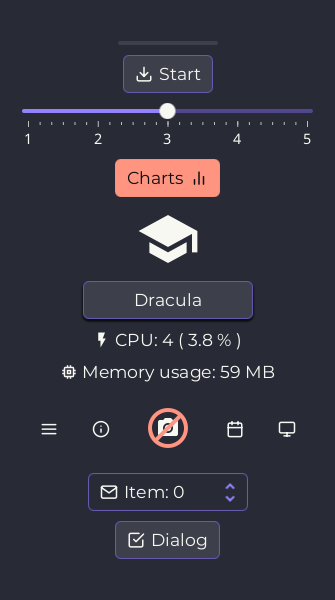
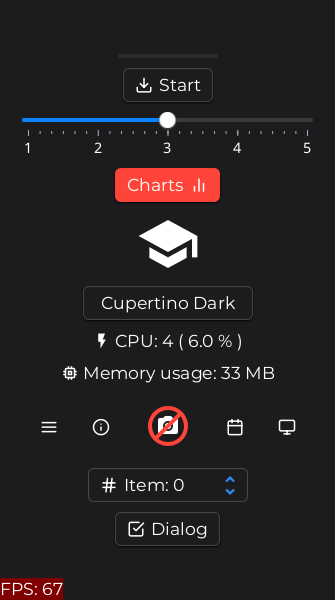
More Screens

diff --git a/src/main/java/com/mycompany/atlantafx_gluon/App.java b/src/main/java/com/mycompany/atlantafx_gluon/App.java
@@ -36,7 +36,6 @@ import org.kordamp.ikonli.material2.Material2OutlinedAL;
 import org.kordamp.ikonli.Ikon;
 import net.datafaker.Faker;
 
-import java.io.File;
 import java.util.Optional;
 import java.util.Random;
 
@@ -66,6 +65,9 @@ public class App extends Application {
     public static final StringProperty label_taxt = new SimpleStringProperty("Theme: ");
     Tooltip basicTtp = new Tooltip(toolbar_taxt.get());
     Label mem_label, cpu_label;
+    long total_time;
+    int count;
+    public static final StringProperty fps = new SimpleStringProperty("FPS: 0");
 
     static final String APP_ICON_PATH = Objects.requireNonNull(
             App.class.getResource(ASSETS_DIR + "icons/app-icon.png")
@@ -78,6 +80,7 @@ public class App extends Application {
 
     //------------------------------------------------------
     public void init() throws Exception {
+//        System.setProperty("javafx.animation.pulse","30");
 //        System.out.println("Method init()");
         System_Info.load_settings();
         try{
@@ -147,11 +150,28 @@ public class App extends Application {
         modalPane.setId("modalPane");
 
         stackPane = new StackPane(modalPane, createWelcomePane(stage), System_Info.notification()); // notification create and add to root stack pane
-        scene = new Scene(stackPane, System_Info.dimension.getWidth(), System_Info.dimension.getHeight());
+        Label lbl = new Label("---");
+        lbl.getStyleClass().addAll("fps_lbl");
+//        lbl.setMaxWidth(Double.MAX_VALUE);
+//        lbl.setAlignment(Pos.BOTTOM_RIGHT);  // Ako koristimo VBox umesto Pane
+        lbl.textProperty().bind(fps);
+        Pane root = new Pane(stackPane,lbl) {
+            @Override
+            protected void layoutChildren() {
+                Insets insets = getInsets();
+                stackPane.setLayoutX(insets.getLeft()); stackPane.setLayoutY(insets.getTop());
+                stackPane.setPrefWidth(insets.getLeft() + getWidth());
+                stackPane.setPrefHeight(insets.getTop() + getHeight());
+                lbl.setLayoutX(insets.getLeft()); lbl.setLayoutY(insets.getTop()+getHeight() - lbl.getHeight());
+                super.layoutChildren();
+            }
+        };
+        VBox.setVgrow(stackPane,Priority.ALWAYS);
+        scene = new Scene(root, System_Info.dimension.getWidth(), System_Info.dimension.getHeight());
         System.out.println("w: " + System_Info.dimension.getWidth() + ",h: " + System_Info.dimension.getHeight());
 //        scene.getStylesheets().add(ASSETS_DIR + "index.css"); // moze za native image ali ne moze za javafx:run
         if (SHOW_KEYBOARD) {
-            // TODO - ovako nema custom ikone na text kontroli
+            // IMPORTANT - ovako nema custom ikone na custom text kontroli
 //            scene.getStylesheets().add(new PrimerDark().getUserAgentStylesheet());  // 1. dodajemo glavnu theme a dole index posle
 //            scene.getStylesheets().add(new CupertinoLight().getUserAgentStylesheet());
             scene.getStylesheets().add(theme.getUserAgentStylesheet());
@@ -166,12 +186,27 @@ public class App extends Application {
         //       stage.setMaxWidth(1280);
         //       stage.setMaxHeight(900);
 
+        scene.addPreLayoutPulseListener(new Runnable() {
+            @Override
+            public void run() {
+//                System.out.println("PreLayoutPulseListener: " + System.currentTimeMillis());
+                count++;
+                if(System.currentTimeMillis() >= total_time + 1000){
+//                    System.out.println("FPS: " + count);
+                    fps.set("FPS: " + count);
+                    count = 0;
+                    total_time = System.currentTimeMillis();
+                }
+            }
+        });
+
         Platform.runLater(() -> {
             stage.show();
 //            stage.requestFocus();
             mem_usage_timer();
         });
     }
+
 
 
     //--------------------------------------------------------------------
@@ -293,9 +328,6 @@ public class App extends Application {
             modalPane.show(settingsDialog_2);
         });
         //--------------------------------------------------
-        var gridScroll = new ScrollPane(tile_card_dialog());    // IMPORTANT - Use ScrollPane za ceo VBox
-        gridScroll.setFitToWidth(true);
-        var card_dialog = gridScroll;
         var card_Btn = new Button(null, stackingExample());
         card_Btn.getStyleClass().addAll(
                 Styles.BUTTON_CIRCLE, Styles.FLAT, Styles.LARGE
@@ -303,7 +335,7 @@ public class App extends Application {
         card_Btn.setOnAction(evt -> {
             modalPane.setAlignment(Pos.TOP_CENTER);
             modalPane.usePredefinedTransitionFactories(Side.TOP);
-            modalPane.show(card_dialog);
+            modalPane.show(tile_card_dialog());
         });
         //--------------------------------------------------
         //######### ne koristim je ovde - samo primer ###########
@@ -602,9 +634,15 @@ public class App extends Application {
             modalPane.hide(true);
         });
         card_dialog.getChildren().add(back_btn);//.getDialogPane().setContent(lbl);
-        card_dialog.setPadding(new Insets(10, 0, 0, 10));
+        card_dialog.setPadding(new Insets(10, 10, 20, 10));
         card_dialog.setSpacing(20);
-        card_dialog.getChildren().addAll(Tile_Card_dialog.tile_example(), Tile_Card_dialog.card_example());
+        var scrolling_box = new VBox(Tile_Card_dialog.tile_example(), Tile_Card_dialog.card_example());
+        scrolling_box.setPadding(new Insets(0, 0, 40, 0));
+        scrolling_box.setSpacing(20);
+        var gridScroll = new ScrollPane(scrolling_box);            // IMPORTANT - Use ScrollPane za nov VBox ispod button
+        gridScroll.setFitToWidth(true);
+//        gridScroll.setFitToHeight(true);
+        card_dialog.getChildren().addAll(gridScroll);
         card_dialog.setAlignment(Pos.TOP_CENTER);
         if (theme.isDarkMode()) {
             card_dialog.setBackground(new Background(new BackgroundFill(Color.rgb(20, 20, 20, 1), null, null)));
@@ -633,9 +671,15 @@ public class App extends Application {
         chart_dialog.getChildren().add(back_btn);//.getDialogPane().setContent(lbl);
         chart_dialog.setPadding(new Insets(10, 0, 20, 0));
         chart_dialog.setSpacing(20);
-        chart_dialog.getChildren().addAll(Tile_Card_dialog.tile_example(), Chart_samples.Updating_2(), Chart_samples.areaChart(),
+        var scrolling_box = new VBox(Tile_Card_dialog.tile_example(), Chart_samples.Updating_2(), Chart_samples.areaChart(),
                 Chart_samples.stackedAreaChart(), Chart_samples.barChart(), Chart_samples.lineChart(), Chart_samples.bubbleChart(),
                 Chart_samples.pieChart(), Chart_samples.scatterChart());
+        scrolling_box.setPadding(new Insets(0, 0, 40, 0));
+        scrolling_box.setSpacing(20);
+        var gridScroll = new ScrollPane(scrolling_box);            // IMPORTANT - Use ScrollPane za nov unutrasnji VBox ispod button
+        gridScroll.setFitToWidth(true);
+//        gridScroll.setFitToHeight(true);
+        chart_dialog.getChildren().add(gridScroll);
         chart_dialog.setAlignment(Pos.TOP_CENTER);
         if (theme.isDarkMode()) {
             chart_dialog.setBackground(new Background(new BackgroundFill(Color.rgb(20, 20, 20, 1), null, null)));

diff --git a/src/main/java/com/mycompany/atlantafx_gluon/Tile_Card_dialog.java b/src/main/java/com/mycompany/atlantafx_gluon/Tile_Card_dialog.java
@@ -55,7 +55,7 @@ public class Tile_Card_dialog {
         tile.setTitle("Tile primer");
 //        tile.getStyleClass().add(Styles.LARGE);   // ne radi za ceo Tile samo za pojedinacne el.
 //        tile.setBorder(Border.stroke(Paint.valueOf(String.valueOf(Color.BLUE))));
-        tile.setDescription(quote);
+        tile.setDescription(quote); // IMPORTANT - Auto BBCode parser
 
         var img = new ImageView(new Image(
                 Objects.requireNonNull(App.class.getResource(App.ASSETS_DIR + "images/avatars/avatar1.png")).toExternalForm()));

diff --git a/src/main/java/com/mycompany/atlantafx_gluon/System_Info.java b/src/main/java/com/mycompany/atlantafx_gluon/System_Info.java
@@ -245,6 +245,8 @@ public class System_Info {
         SystemInfo si = new SystemInfo();
         HardwareAbstractionLayer hal = si.getHardware();
         CentralProcessor cpu = hal.getProcessor();
+//        System.out.println("CurrentFreq: " + Arrays.toString(cpu.getCurrentFreq()));
+//        System.out.println("Name: " + cpu.getProcessorIdentifier().getName());
 
         double cpuLoad = cpu.getSystemCpuLoadBetweenTicks( prevTicks ) * 100;
         prevTicks = cpu.getSystemCpuLoadTicks();
